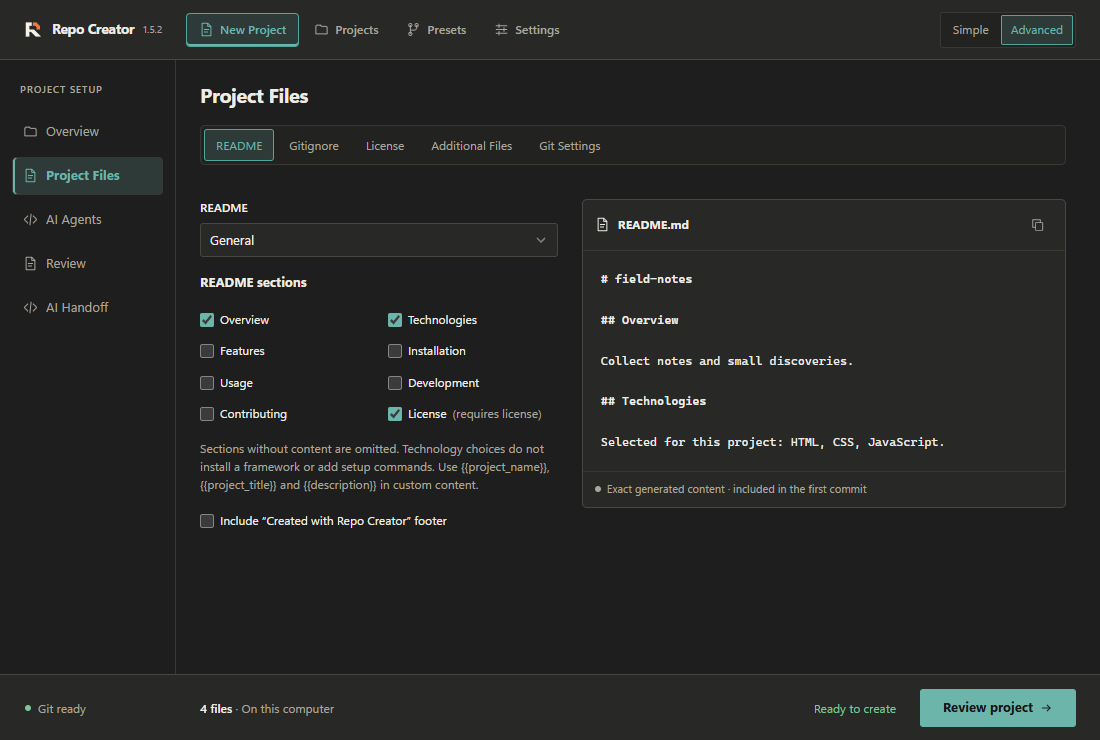
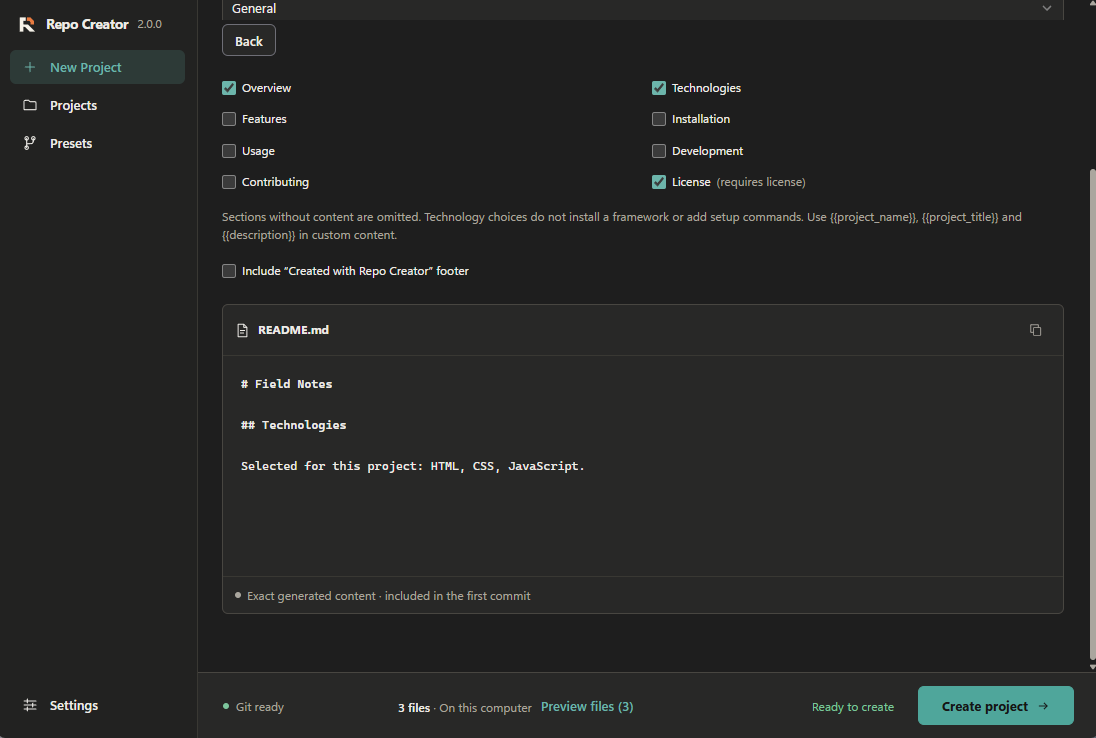
Refresh README screenshots from the 2.0.0 build
Ten images (five light and dark pairs) from the 2.0.0 Windows debug build with a
fictional project. A private local path was replaced with C:\Projects in the
images and two technology images were cropped 8px; the provenance page says so.

diff --git a/docs/assets/README.md b/docs/assets/README.md
@@ -1,49 +1,46 @@
 # Application screenshots
 
-The `overview`, `configuration`, `workspace`, `commands`, `settings` and `readiness`
-PNG pairs, plus the current technology-detection captures, come from the real **Repo Creator 1.5.2** Windows
-WebView2 application at **1100 × 740**, in light and dark appearances with the
-actual default **Muted Teal** accent (`#4FA69B`, using theme-specific UI shades).
-They were captured on 25 October 2026 for the upcoming **v1.5.2 Beta**, from the
-version-preparation branch based on green main `c367eb1`, containing PRs #16–18.
+The `overview`, `configuration`, `workspace`, `technology-detection-review` and `readiness`
+PNG pairs come from the **Repo Creator 2.0.0** Windows debug build, in light and dark
+appearances, at about **1100 × 740** with the default **Muted Teal** accent. They were
+captured by hand from the running application on 9 November 2026, from the version
+pull request that sets 2.0.0. The header shows the application's real version.
 
-The header is the application's actual native version, not edited image text or
-a frontend override. The capture harness checks `get_update_info.currentVersion`
-and the visible header against `package.json` before saving images. Each capture
-also checks the header and native accent preference. It rejects stale builds,
-including the prior 1.5.1 executable. All six checked application version values
-are 1.5.2. The current published release is v1.5.1 Beta; these screenshots do not
-imply that v1.5.2 is already available to download.
+The fictional Field Notes project uses an isolated application data folder, an isolated
+Git configuration with the fictional identity **Ada Example**, and a small repository
+without remotes. Readiness was captured before any project command ran. The technology
+review shows real manifest evidence for TypeScript and Vite and was captured before
+adding the suggestions. Nothing was installed, no output links were opened, no model
+requests were made and nothing was published.
 
-The fictional Field Notes fixture uses isolated application settings, an isolated
-Git home with **Example Developer**, and an owned `C:\Projects\field-notes`
-repository without remotes. Readiness is captured first, with deliberately
-missing lockfile, `node_modules` and `.env`, using read-only inspection and no
-project command execution. Only afterward does the harness link already installed
-build tooling and explicitly start the local Vite preview for the console images.
-Technology-detection captures also precede command execution and show real manifest
-evidence, pending additions and unchanged saved selections. The harness installs
-nothing, opens no output links, makes no model requests and publishes nothing.
-The process is stopped before owned fixture data is removed. Images
-are checked for private paths and account data and visually reviewed.
+**These ten images are edited in two ways, and in no other way:**
 
-Historical before images in `docs/images/commands-ux` retain their original
-1.4.3 or 1.5.0 headers, with provenance in the comparison report. The original
-`simple-mode.png` and `advanced-mode.png` remain historical assets and are not
-used as current README screenshots. The technology-detection before image retains
-its real 1.5.1 header from before PR #16. Current detection images use the generic
-Field Notes path and include the complete application frame and native 1.5.2
-header; they are direct screenshots with no image editing or masking.
+- The text of a local folder path was replaced with `C:\Projects` (the Save location field
+  on New Project, and the project path under the project name), because the real path
+  contained a private user name. The replacement text is drawn in the same colours.
+- On the two technology-detection images, a few pixels of path text behind the dialog
+  were covered with the dialog's background colour, and the bottom 8 pixels were cropped
+  because they contained unrelated desktop content.
 
-To refresh, build the intended source and run `node tests/public-screenshots.mjs`
-on Windows. Set `REPO_CREATOR_SMOKE_EXE` to select the matching executable and
-optionally `REPO_CREATOR_SCREENSHOT_OUTPUT` for review captures outside this
-folder. The harness refuses an existing demo project or occupied debugging port,
-preserves an existing `C:\Projects` parent, and removes only its owned fixture
-and temporary profile. Vite uses port 5187 with strict port selection. Binaries
-and browser data remain untracked.
+Because the folder shown is not the real one, `C:\Projects\field-notes` in these images
+is illustrative; no such folder was used.
 
-[Version preparation and verification](../v1.5.2-preparation.md) ·
+The `commands`, `settings`, `technology-detection-before`, `technology-detection-pending`
+and `technology-detection-settings` images are older, real **1.5.2** captures from
+25 October 2026 and show the earlier layout. Historical before images in
+`docs/images/commands-ux` retain their original 1.4.3 or 1.5.0 headers, with provenance in
+the comparison report. The original `simple-mode.png` and `advanced-mode.png` remain
+historical assets and are not used as current README screenshots. The
+technology-detection before image retains its real 1.5.1 header from before PR #16.
+
+To refresh the images automatically, build the intended source and run
+`node tests/public-screenshots.mjs` on Windows. That script is **not usable as written for
+2.0.0**: it still writes to `C:\Projects\field-notes` and uses selectors from the earlier
+layout (see the [release checklist](../redesign-release-checklist.md#native-public-screenshots)).
+Binaries and browser data remain untracked.
+
+[Version preparation and verification](../v2.0.0-preparation.md) ·
+[Earlier 1.5.2 preparation](../v1.5.2-preparation.md) ·
 [Before/after comparisons and website refresh inventory](../commands-ux-review.md).
 The separate marketing website and its intentionally pinned v1.5.1 interactive
 demo are not modified by this preparation.

diff --git a/README.md b/README.md
@@ -25,10 +25,10 @@ A desktop workspace for starting Git repositories and returning to the projects 
 <picture>
   <source media="(prefers-color-scheme: dark)" srcset="docs/assets/overview-dark.png">
   <source media="(prefers-color-scheme: light)" srcset="docs/assets/overview-light.png">
-  <img src="docs/assets/overview-light.png" alt="New Project Overview for Field Notes, with a Website preset, local destination and exact generated-file previews." width="1100">
+  <img src="docs/assets/overview-light.png" alt="New Project for Field Notes, with the Website starting point, three selected technologies and a local destination." width="1100">
 </picture>
 
-The screenshots show the **1.5.2** preparation build and its earlier layout. The guide below describes the redesigned interface on this branch. See the [redesign notes draft](docs/release-notes/ui-redesign-draft.md) and the [published release notes](https://github.com/DefinitivedCode/RepoCreator/releases) for what is included in each download.
+The screenshots show the redesigned interface of the **2.0.0** Windows build with a fictional Field Notes project and a fictional Git identity. In the images, the text of a local folder path was replaced with `C:\Projects` to keep a private path out of public files; nothing else was edited. See the [redesign notes draft](docs/release-notes/ui-redesign-draft.md) and the [published release notes](https://github.com/DefinitivedCode/RepoCreator/releases) for what is included in each download.
 
 ## Download
 
@@ -92,7 +92,7 @@ Your project library brings existing and newly created repositories into one pla
 <picture>
   <source media="(prefers-color-scheme: dark)" srcset="docs/assets/workspace-dark.png">
   <source media="(prefers-color-scheme: light)" srcset="docs/assets/workspace-light.png">
-  <img src="docs/assets/workspace-light.png" alt="Repo Creator 1.5.2 preparation build: Field Notes workspace with a clean Git tree, a suggested command to review and a running local Vite server with styled output." width="1100">
+  <img src="docs/assets/workspace-light.png" alt="Repo Creator 2.0.0: the Field Notes project workspace with a clean Git tree, the Readiness count and the Open in menu." width="1100">
 </picture>
 
 ANSI colours render as text styles, web addresses open only when chosen, and suggestions remain subject to review. [Console details and safety](docs/project-workspace.md#run-and-stop) · [v1.5.2 preparation and verification](docs/v1.5.2-preparation.md) · [Before/after review](docs/commands-ux-review.md).
@@ -102,7 +102,7 @@ ANSI colours render as text styles, web addresses open only when chosen, and sug
 <picture>
   <source media="(prefers-color-scheme: dark)" srcset="docs/assets/technology-detection-review-dark.png">
   <source media="(prefers-color-scheme: light)" srcset="docs/assets/technology-detection-review-light.png">
-  <img src="docs/assets/technology-detection-review-light.png" alt="Repo Creator 1.5.2 reviewing technology suggestions from the fictional Field Notes project's manifests before adding them." width="1100">
+  <img src="docs/assets/technology-detection-review-light.png" alt="Repo Creator 2.0.0 reviewing technology suggestions from the fictional Field Notes project's manifests before adding them." width="1100">
 </picture>
 
 [Detection details and inspection limits →](docs/project-workspace.md#detect-technologies-from-project-files)
@@ -117,7 +117,7 @@ Automatic inspection reads a bounded set of project files and locates tools. It 
 <picture>
   <source media="(prefers-color-scheme: dark)" srcset="docs/assets/readiness-dark.png">
   <source media="(prefers-color-scheme: light)" srcset="docs/assets/readiness-light.png">
-  <img src="docs/assets/readiness-light.png" alt="Real Readiness findings for the demo project: missing lockfile, missing local environment file and uninstalled dependencies, each with a copyable suggested fix." width="1100">
+  <img src="docs/assets/readiness-light.png" alt="Real Readiness findings for the demo project: missing lockfile, missing .gitignore and uninstalled dependencies, each with a copyable suggested fix." width="1100">
 </picture>
 
 This fixture intentionally has no lockfile, installed packages or local environment file. No project commands were run for these findings. [Readiness details and safeguards →](docs/project-workspace.md#check-readiness)
